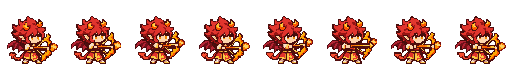
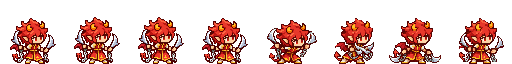
스파키 새 모습: 사슬 쌍낫 암살자 (정지 그림·동작 8칸)

diff --git a/개발일지/2026-11-28/이미지.md b/개발일지/2026-11-28/이미지.md
@@ -371,3 +371,15 @@
 
 - 결과: 8칸 발 위치·얼굴 확대 확인, 공격 칸 분홍 가장자리 49점 제거. 폭은 기사(47)보다 3점 넓음. 전투 화면 재생은 확인 못 함.
 - 그림: img/codex/gate_archer/frames.png
+
+## [디자인] 스파키: 불화살 궁수 → 사슬 쌍낫 암살자 ⭐
+- 한 것: `img/p/imp.png`, `imp_anim.png`(대기 4 + 베기 4), `imp_atk.png` 교체. 은색 날 사슬 쌍낫, 눈은 머리색에 맞춘 빨강, 머리 3색 음영.
+- 의도: "낫으로할까" "작은 쌍낫" → 사슬낫 참고 그림 → "B날키우고 색상들이 좀" → "1"(은색), "네, 넣어 줘"
+- 숫자:
+
+| | 예전 | 날 키운 첫 시도 | 확정 |
+|---|---|---|---|
+| 폭(점) | 51 | 74 | 46 |
+
+- 결과: 8칸 발 위치·공격 칸 얼굴 확대 확인. 전투 화면 재생은 확인 못 함.
+- 그림: img/codex/imp_assassin/frames.png
